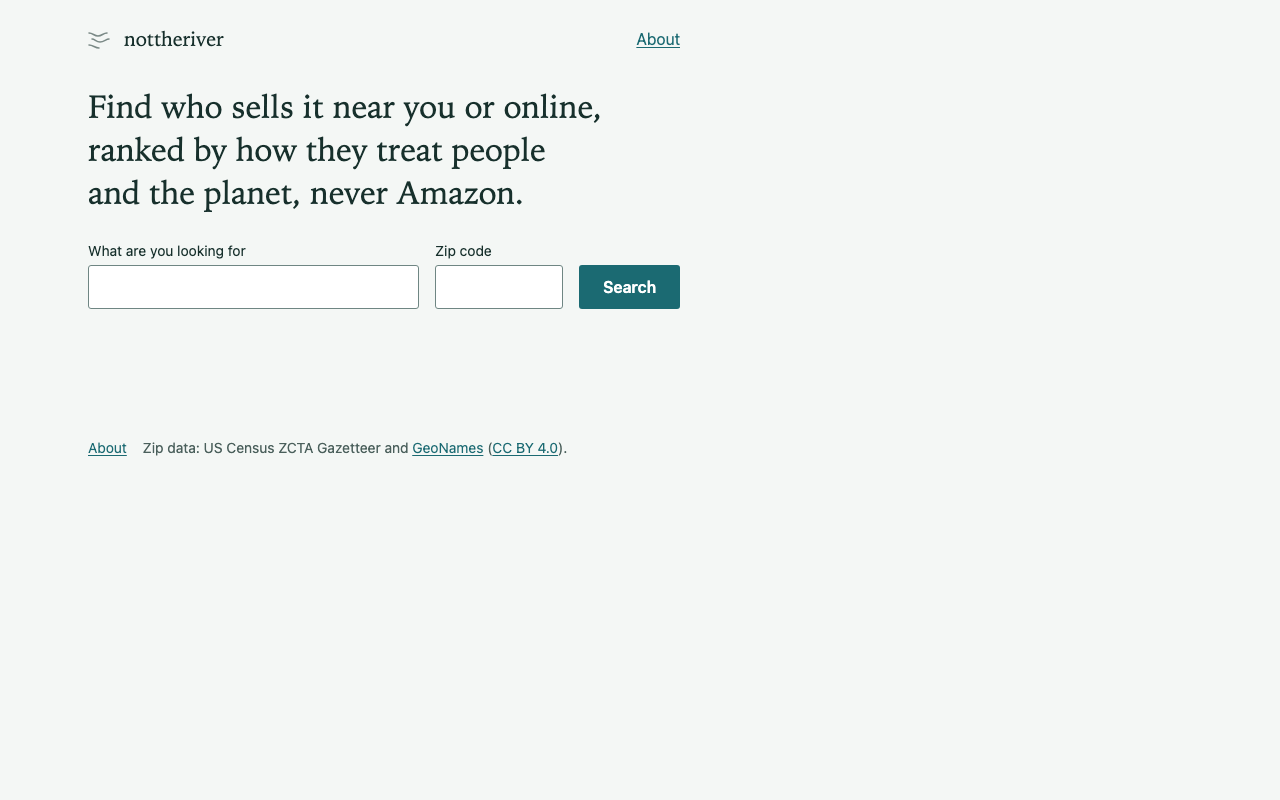
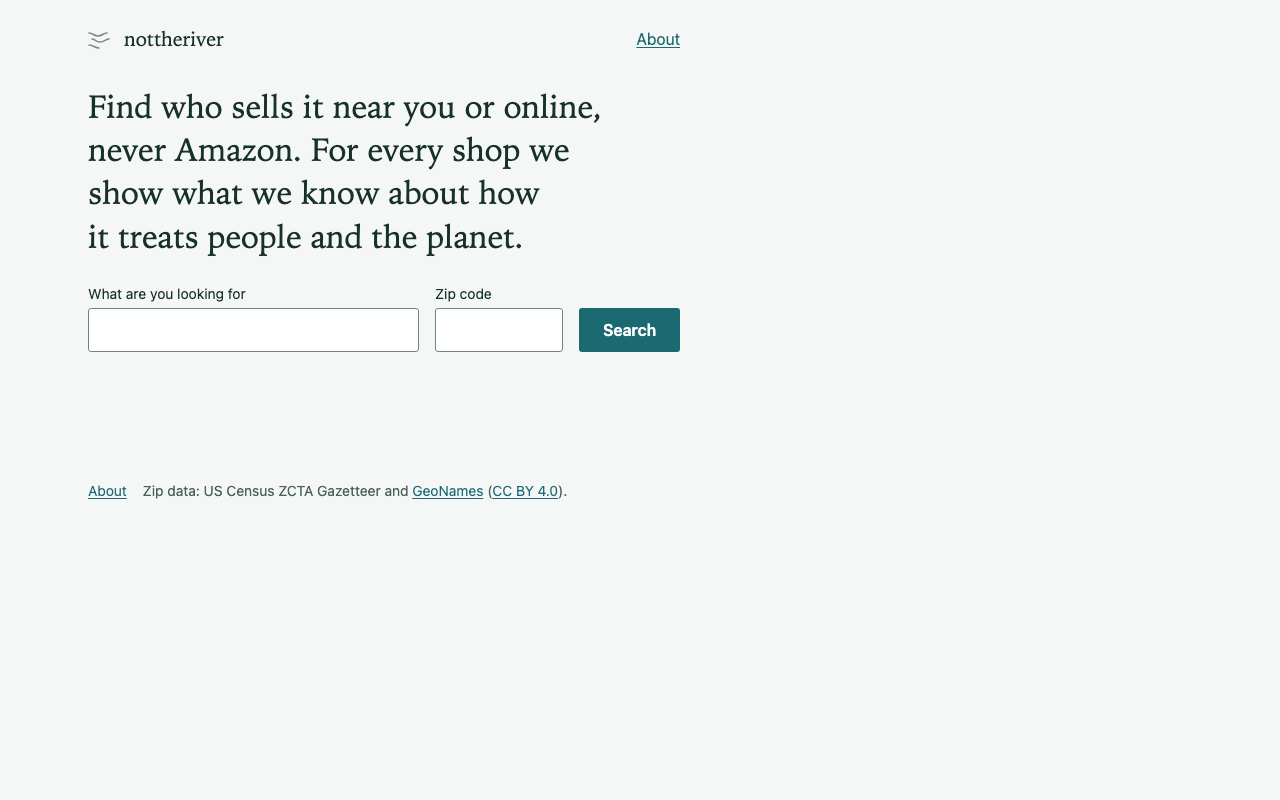
feat: say "unknown" on shops with no record, and make the headline true
A result with no scoring certification and no finding now shows "People
and planet: unknown" on its row, and a line under the weights says how
many shown results have a record and what unknown means. "Why this
rank" says "Unknown" where it said "Nothing found": holding nothing on
a shop means it was not looked into far, or looking was blocked, and
says nothing about how the shop behaves. The row uses the panel's own
test, so a chain badge or a membership badge that never scores still
reads unknown.

The headline drops "ranked by how they treat people and the planet",
which held for about one result in nine, for "For every shop we show
what we know about how it treats people and the planet."

Claude-Session: https://claude.ai/code/session_01CkQcP2ZUvVN6X4vgfbAERQ

diff --git a/src/render.test.ts b/src/render.test.ts
@@ -61,12 +61,12 @@ describe('renderResults (HR5)', () => {
     }
   });
 
-  it('names certifications and concerns, and says when nothing was found', () => {
+  it('names certifications and concerns, and says unknown when it holds neither', () => {
     const [first, second] = response.local;
     expect(whyRows(first!)).toEqual([
       ['Sells it', 'Product named in listing'],
       ['Ethics', 'B Corp'],
-      ['Environment', 'Nothing found'],
+      ['Environment', 'Unknown'],
       ['Distance', formatDistance(first!.distance_km!)],
     ]);
     expect(whyRows(second!)[1]).toEqual(['Ethics', 'Labor concern']);
@@ -87,7 +87,7 @@ describe('renderResults (HR5)', () => {
     });
     const rows = (r: SearchResult) =>
       [...renderResult(r, config).querySelectorAll('[data-component]')].map((row) => row.querySelector('.component-text')!.textContent);
-    expect(rows(judged(1, 'Model judgment: likely sells it'))).toEqual(['Likely, by shop type', 'B Corp', 'Nothing found', 'Unknown']);
+    expect(rows(judged(1, 'Model judgment: likely sells it'))).toEqual(['Likely, by shop type', 'B Corp', 'Unknown', 'Unknown']);
     expect(rows(judged(0.5, 'Model judgment: may sell it'))[0]).toBe('Maybe, by shop type');
     expect(rows(judged(0.2, base.retailer.name))[0]).toBe('Not confirmed');
   });
@@ -126,6 +126,63 @@ describe('renderResults (HR5)', () => {
     expect(plain.certifications).toHaveLength(0);
     expect(plain.chain).toBeUndefined();
     expect(item(plain).querySelector('.badges')).toBeNull();
+  });
+
+  const recordLine = (result: SearchResult) => renderResult(result, config).querySelector('[data-record]');
+
+  it('says "unknown" on a result with no certification or finding, and only there', () => {
+    const [certified, withConcern] = response.local;
+    const [alsoCertified, chainOnly] = response.online;
+    // A chain badge is a fact about the domain, not about how the shop treats people or the planet.
+    expect(chainOnly!.chain).toBeDefined();
+    expect(recordLine(chainOnly!)!.textContent).toBe('People and planet: unknown');
+    for (const result of [certified!, withConcern!, alsoCertified!]) expect(recordLine(result), result.id).toBeNull();
+    const positive: Signal = { kind: 'labor', polarity: 'positive', claim: 'Named a best employer', source_url: 'https://example.org/a', origin: 'llm', action_date: null };
+    expect(recordLine({ ...chainOnly!, signals: [positive] })).toBeNull();
+  });
+
+  it('still says "unknown" beside a membership badge that does not score', () => {
+    const base = response.online[1]!;
+    const member: SearchResult = {
+      ...base,
+      certifications: [{ kind: 'independent_retailer_assoc', label: 'Independent retailer association member', source_url: 'https://example.org/members', checked: '2026-01-01' }],
+    };
+    const li = renderResult(member, config);
+    expect(li.querySelector('.badge')!.textContent).toBe('Independent retailer association member');
+    expect(li.querySelector('[data-record]')!.textContent).toBe('People and planet: unknown');
+    const el = document.createElement('div');
+    renderResults({ ...response, local: [], online: [member] }, el, config);
+    expect(el.querySelector('[data-record-count]')!.textContent).toMatch(/^0 of 1 result has a people-and-planet record\. Unknown means/);
+  });
+
+  it('keeps the "unknown" line free of links, and the panel in agreement with it', () => {
+    for (const result of all) {
+      const li = renderResult(result, config);
+      const line = li.querySelector('[data-record]');
+      if (!line) continue;
+      expect(line.querySelector('a')).toBeNull();
+      const panel = [...li.querySelectorAll('[data-component="ethics"] .component-text, [data-component="env"] .component-text')];
+      expect(panel.map((row) => row.textContent)).toEqual(['Unknown', 'Unknown']);
+    }
+  });
+
+  it('counts the results that have a record, once, above the lists', () => {
+    const counts = root.querySelectorAll('[data-record-count]');
+    expect(counts).toHaveLength(1);
+    expect(counts[0]!.textContent).toBe(
+      '3 of 4 results have a people-and-planet record. Unknown means a shop is on none of our lists and this search found nothing about it: we have not looked further yet, or were blocked from looking.',
+    );
+    expect(counts[0]!.previousElementSibling!.matches('[data-weights]')).toBe(true);
+  });
+
+  it('counts only the results the filters leave, and drops the explanation when none is unknown', () => {
+    const el = document.createElement('div');
+    renderResults(response, el, config, { ...defaultView, certifiedOnly: true });
+    expect(el.querySelector('[data-record-count]')!.textContent).toBe('2 of 2 results have a people-and-planet record.');
+    renderResults(response, el, config, { ...defaultView, near: false, certifiedOnly: true });
+    expect(el.querySelector('[data-record-count]')!.textContent).toBe('1 of 1 result has a people-and-planet record.');
+    renderResults({ ...response, local: [], online: [] }, el, config);
+    expect(el.querySelector('[data-record-count]')).toBeNull();
   });
 
   it('shows a negative signal with its kind, source link, action date, and a dispute link', () => {

diff --git a/src/render.ts b/src/render.ts
@@ -41,6 +41,8 @@ const SIGNAL_LABELS: Record<SignalKind, string> = {
 
 const RANKING_HELP = 'about.html#ranking';
 
+type Component = SearchResult['components'][number];
+
 function el<K extends keyof HTMLElementTagNameMap>(
   tag: K,
   props: { id?: string; className?: string; data?: Record<string, string> } = {},
@@ -97,7 +99,7 @@ const WHY_LABELS: Record<ComponentName, string> = {
 
 const isRankingDoc = (url: string) => url.endsWith('about.html#ranking');
 
-function sellsText(c: SearchResult['components'][number]): string {
+function sellsText(c: Component): string {
   const judged = c.sources.some((s) => s.label.startsWith('Model judgment'));
   if (c.value >= 1) return judged ? 'Likely, by shop type' : 'Product named in listing';
   if (c.value >= 0.5) return judged ? 'Maybe, by shop type' : 'Category named in listing';
@@ -161,7 +163,17 @@ function sourceLink(s: SourceRef): HTMLAnchorElement {
   return outbound(s.url, kind ? `${kind} concern` : s.label, { data: { componentSource: '' } });
 }
 
-function whyText(c: SearchResult['components'][number], result: SearchResult): (Node | string)[] {
+const foundSources = (c: Component) => c.sources.filter((s) => !isRankingDoc(s.url));
+
+// "Unknown", not "nothing found": holding no certification or finding says the shop has
+// not been looked into far, or that looking was blocked, and nothing about how it behaves.
+// The test is the panel's own (a source behind the ethics or environment score), so the row
+// and the panel cannot disagree. A chain badge or a membership badge that never scores is
+// not a record.
+const hasRecord = (result: SearchResult) =>
+  result.signals.length > 0 || result.components.some((c) => (c.name === 'ethics' || c.name === 'env') && foundSources(c).length > 0);
+
+function whyText(c: Component, result: SearchResult): (Node | string)[] {
   switch (c.name) {
     case 'relevance':
       return [sellsText(c)];
@@ -169,14 +181,14 @@ function whyText(c: SearchResult['components'][number], result: SearchResult): (
       if (result.kind === 'online') return ['Online'];
       return [result.distance_km === null ? 'Unknown' : formatDistance(result.distance_km)];
     default: {
-      const found = c.sources.filter((s) => !isRankingDoc(s.url));
-      if (found.length === 0) return ['Nothing found'];
+      const found = foundSources(c);
+      if (found.length === 0) return ['Unknown'];
       return found.flatMap((s, i) => (i > 0 ? [', ', sourceLink(s)] : [sourceLink(s)]));
     }
   }
 }
 
-function componentRow(c: SearchResult['components'][number], result: SearchResult): HTMLLIElement {
+function componentRow(c: Component, result: SearchResult): HTMLLIElement {
   return el(
     'li',
     { data: { component: c.name } },
@@ -209,6 +221,8 @@ export function renderResult(result: SearchResult, config: RenderConfig): HTMLLI
       ),
     );
   }
+
+  if (!hasRecord(result)) body.append(el('p', { className: 'record', data: { record: 'unknown' } }, 'People and planet: unknown'));
 
   // The claim is the source's own title; this code only labels its kind.
   for (const s of result.signals) {
@@ -253,6 +267,16 @@ export function renderWeights(weights: SearchResponse['weights']): HTMLParagraph
     `Ranked by ${parts.join(', ')}. `,
     internal(RANKING_HELP, 'How ranking works'),
   );
+}
+
+// Says how much of the list rests on a record, so a page of "unknown" rows reads as a gap
+// in what the site holds and not as a verdict on the shops.
+function renderRecordCount(shown: SearchResult[]): HTMLParagraphElement | null {
+  if (shown.length === 0) return null;
+  const withRecord = shown.filter(hasRecord).length;
+  const count = `${withRecord} of ${shown.length} ${shown.length === 1 ? 'result has' : 'results have'} a people-and-planet record.`;
+  const unknown = ' Unknown means a shop is on none of our lists and this search found nothing about it: we have not looked further yet, or were blocked from looking.';
+  return el('p', { className: 'record-count', data: { recordCount: '' } }, withRecord < shown.length ? count + unknown : count);
 }
 
 const shopId = (rank: number) => `shop-${rank}`;
@@ -318,7 +342,7 @@ function section(
   return node;
 }
 
-// Renders the weights line and both sections into root; returns how many results are visible.
+// Renders the weights line, the record count and both sections into root; returns how many results are visible.
 export function renderResults(
   response: SearchResponse,
   root: HTMLElement,
@@ -334,8 +358,10 @@ export function renderResults(
   const map = pins.length > 0 && config.onMap ? el('div', { className: 'map', data: { map: '' } }) : null;
   map?.setAttribute('role', 'region');
   map?.setAttribute('aria-label', 'Map of the shops listed near you');
+  const recordCount = renderRecordCount([...shownLocal, ...shownFarther, ...shownOnline]);
   root.replaceChildren(
     renderWeights(response.weights),
+    ...(recordCount ? [recordCount] : []),
     section('near', 'Near you', response.local, shownLocal, view.near, config, farther, map),
     section('online', 'Online', response.online, shownOnline, view.online, config),
   );

diff --git a/about.html b/about.html
@@ -22,7 +22,7 @@
 </header>
 
 <main class="page prose">
-<h1>Find who sells it near you or online, ranked by how they treat people and the planet, never Amazon.</h1>
+<h1>Find who sells it near you or online, never Amazon. For every shop we show what we know about how it treats people and the planet.</h1>
 <p>Type a product and a US zip code. You get shops near you and online retailers that sell it or something close, each ranked with its reasons shown. There are no accounts, cookies, or analytics.</p>
 
 <h2 id="amazon">Why Amazon never appears</h2>
@@ -38,6 +38,7 @@
 <li>Proximity: for shops near you, 1 at the center of your zip area, falling to 0 at 40 km (about 25 miles). Online retailers get 0.5.</li>
 </ul>
 <p>"Baseline 0.5" in a score's sources means that score started at 0.5 and nothing changed it.</p>
+<p>"Unknown" on a result means the shop is on none of our curated lists and the search turned up no accepted finding about it: we have not looked further yet, or we were blocked from looking. It counts neither for nor against the shop: its ethics and environment scores stay at 0.5.</p>
 <p>Certifications come from a short curated list in which every entry cites its source. A negative finding lowers a score only when its source is on the list of accepted sources: regulators, court records, established news organizations, and recognized labor and environmental watchdogs. The language model suggests search terms, judges whether each result is a shop that sells the product and leaves out those it judges are not, and points to findings in the search results; the text shown for a finding is always the source's own title or snippet, never words the model wrote. The chain badge comes from a curated list of chains with 10 or more US stores, each entry linking its own source, Like a certification it can be disputed; unlike one, it never changes the score. Details: <a data-repo-path="blob/main/docs/ranking.md">docs/ranking.md</a>.</p>
 
 <h2 id="dispute">Disputing a ranking</h2>

diff --git a/src/styles.css b/src/styles.css
@@ -145,6 +145,7 @@ input[aria-invalid="true"] { border-color: var(--warn); border-width: 2px; }
 input[type="checkbox"] { accent-color: var(--accent); width: 1.25rem; height: 1.25rem; margin: 0; }
 .weights, .coverage-note { color: var(--ink-muted); font-size: var(--text-sm); margin: var(--space-3) 0 0; }
 .coverage-note { margin-top: var(--space-6); }
+.record-count { color: var(--ink-muted); font-size: var(--text-sm); margin: var(--space-1) 0 0; }
 
 section h2 { font-family: var(--font-voice); font-weight: 400; font-size: var(--text-lg); margin: var(--space-6) 0 var(--space-1); }
 section h3 { font-family: var(--font-voice); font-weight: 400; font-size: var(--text-md); margin: var(--space-5) 0 var(--space-1); }
@@ -195,6 +196,7 @@ section h3 { font-family: var(--font-voice); font-weight: 400; font-size: var(--
 /* An inset shadow, not a border, keeps it the same height as a teal badge in the same row. */
 .badge-neutral { background: none; color: var(--ink); box-shadow: inset 0 0 0 1px var(--border-input); }
 .signal, .negative, .concerns { margin: var(--space-3) 0 0; font-size: var(--text-sm); }
+.record { margin: var(--space-3) 0 0; font-size: var(--text-sm); color: var(--ink-muted); }
 .signal-kind { font-weight: 600; }
 .negative { padding: var(--space-3); background: var(--warn-bg); color: var(--warn); border-radius: var(--radius-panel); }
 .negative a { color: var(--warn); margin-right: var(--space-4); }

diff --git a/src/config.ts b/src/config.ts
@@ -4,7 +4,7 @@
 export const siteName = 'nottheriver';
 
 export const tagline =
-  'Find who sells it near you or online, ranked by how they treat people and the planet, never Amazon.';
+  'Find who sells it near you or online, never Amazon. For every shop we show what we know about how it treats people and the planet.';
 
 // Operator-entered, so a trailing slash must not turn /search into //search.
 export const workerUrl: string = (import.meta.env.VITE_WORKER_URL ?? '').replace(/\/+$/, '');

diff --git a/index.html b/index.html
@@ -22,7 +22,7 @@
 </header>
 
 <main class="page">
-<h1 class="mission" data-mission>Find who sells it near you or online, ranked by how they treat people and the planet, never Amazon.</h1>
+<h1 class="mission" data-mission>Find who sells it near you or online, never Amazon. For every shop we show what we know about how it treats people and the planet.</h1>
 
 <form id="search" class="search" method="post" action="#" novalidate>
 <div class="field field-product">

diff --git a/docs/STATUS.md b/docs/STATUS.md
@@ -43,6 +43,7 @@ As of 2026-10-01. Pushed to `main`; the Worker is deployed at `e573572` with the
 | Wireframes from a blank page (2026-11-11) | [wireframes/](wireframes/README.md): three low-fidelity designs by agents that never saw the current site, working only from [wireframes/inventory.md](wireframes/inventory.md) (needs, information, functions and rules, no screens; passed three leak checks). WF1 orders the visit as a sequence of six steps, WF2 hangs everything on a drawing of the visitor's area, WF3 presents the answer as sourced statements. Each has a `wireframe.html` at 360 px and 1280 px, the designer's reasons, a coverage table and an independent check with one fix round (24, 21 and 17 gaps found; 22, 21 and 13 fixed or addressed, the rest in part). Not rendered in a browser; fixes not checked a second time. Documentation only: nothing in `src/` changed |
 | Ethics as a data problem (2026-11-11) | [ethics-data-strategies.md](ethics-data-strategies.md): the operator's answer to the headline rewrite (VQ3) was to keep ethics in the product and treat the gap as a data problem. Eight agents (five Sonnet, one Opus, two Fable) read the operator's eight starting points, hunted datasets and brainstormed blind to each other; a fresh review raised 27 findings, all applied. Measured on saved searches ([evidence/ethics-data/shop-domains.tsv](evidence/ethics-data/shop-domains.tsv)): 235 of 2,182 results (11%) are off the default scores, 166 of them from findings on three chains and 69 from certifications on five websites. Likely finding: data exists for national chains (grades need the publisher's permission, federal records need upkeep), partly for brands, and not yet for small local shops. 13 strategies (ES1 to ES12, with ES11 in two parts), a four-step sequence starting with an explicit "not checked" line on every shop, six headline wordings that keep ethics in the line. Nothing built; every hour figure is an estimate; reuse terms were read through a summarizing tool and need the operator's check |
 | Blocked pages read (2026-11-15) | The 58 pages the ethics report could not read, tried again within the operator's limits (crawler rules followed, no stealth tool, proxy, CAPTCHA solving or login). By the lead agent's count about 13 questions are answered and about 16 partly; 13 are not answerable today, 6 were terms questions skipped under the data stance ruling, 4 are held unread, 6 are gone, behind a login or unmeasured. Results are in the last column of [section 10](ethics-data-strategies.md#10-pages-the-owner-needs-to-open) and in [evidence/ethics-data/blocked-pages/](evidence/ethics-data/blocked-pages/README.md). Useful to the build: look-up links that carry a shop's name work on Violation Tracker, Good On You, Good Shopping Guide and B Corp (one or two names tested each); Alter Eco and Lake Champlain Chocolates are B Corps; Form 5500 codes mark companies with an employee stock ownership plan; GreenChill certifies single stores (Target 78, Costco 5 among the most-seen shops). New script: `research/fetch-page.mjs`. Each answer rests on one fetch; two departures from the limits are recorded in the evidence README |
+| Record line and headline (2026-11-15) | Step 1 of the ethics sequence, in part (ES1 in [ethics-data-strategies.md](ethics-data-strategies.md#5-strategies)). A result with no scoring certification and no finding shows "People and planet: unknown" (a chain badge or a membership badge that never scores does not count); a line under the weights says how many shown results have a record and what unknown means; "Why this rank" says "Unknown" where it said "Nothing found"; `about.html` says what unknown means. The headline on both pages is now "Find who sells it near you or online, never Amazon. For every shop we show what we know about how it treats people and the planet." Checks: 896 unit tests, lint and typecheck, and the 3 end-to-end tests (run locally with a cached Chromium build, not the pinned one). In the newest saved searches about 87% of results hold no certification or finding, so most rows read "unknown". Not built: the look-up links (ES3), which wait on the owner trying each link pattern on 20 shops |
 | Docs | [security alerts](security-alerts.md) (each `npm audit` alert, what was done, what stays open and how to repeat the check, 2026-11-11), [architecture](architecture.md), [privacy](privacy.md), [ranking](ranking.md), [costs](costs.md), [debt](debt.md), [scale feasibility](scale-feasibility.md) (caching, storage and cost as users arrive, 2026-10-08, with [reuse](scale-feasibility-reuse.md) and [costs](scale-feasibility-costs.md) companions), [open place coverage](open-place-coverage.md) (the 86 graded nearby shops against OpenStreetMap and Overture, 2026-10-09), [open place precision](open-place-precision.md) (300 Overture shops near the graded zips graded for sells-it and exists, 2026-10-09), [ethics data strategies](ethics-data-strategies.md) (ways to keep ethics in the product, with the data sources checked, 2026-11-11), [scaling architecture](scaling-architecture.md) (scenarios from steady use to the whole country, the options and a staged path, 2026-11-11), ADRs [0001](decisions/0001-external-services.md) to [0006](decisions/0006-weighted-findings.md) |
 
 ## In flight
@@ -110,6 +111,7 @@ Effect on the ethics sequence: step 1 is the record line on every shop (ES1) and
 - Data stance (2026-11-15, this project only): the project "should be scrappy and prioritize sharing data with the public". It honors robots.txt and avoids questionable unblocking strategies. It will "claim fair use when sharing scraped data rather than parsing TOS and worrying about legality. this site is non-profit and experimental." Effect on [ethics-data-strategies.md](ethics-data-strategies.md): a publisher's permission no longer gates ED4 (which permissions to ask for), ED5 (non-commercial use), ES12 (lists loaded with permission) or the grades half of ES10 (graded by others); the report itself is not rewritten. Unchanged: the rules for findings about a shop ([ADR 0004](decisions/0004-down-ranking.md), `data/negative-sources.md`), so ED9 (whether an advocacy scorecard is an accepted source) is still open. Flagged by the agent, not ruled: fair use does not answer a license condition such as OpenStreetMap's share-alike (ED8), and it is weakest for republishing a rater's whole set of grades.
 - Reading pages for research (2026-11-15): agents may read Wayback Machine copies of pages that refuse automated readers and use `research/fetch-page.mjs` (robots.txt checked before every request, true client name, no retry past a challenge page). The same day the operator approved one attended session in their own Chrome for six named walled pages (Violation Tracker, B Corp, the New York wage theft dashboard); any other page needs a new yes. Paid unblocking services, false client names and CAPTCHA solving stay out.
 - Words for a shop with no record (ED2 in [ethics-data-strategies.md](ethics-data-strategies.md#9-decisions-for-the-owner), 2026-11-15): "unknown", not the report's "not checked". In the operator's words: "i prefer 'unknown' because we might be blocked from checking or have literally not checked yet." The record line on every shop (ES1) is to be built with it.
+- Headline (ED1 in [ethics-data-strategies.md](ethics-data-strategies.md#8-headline-wording), 2026-11-15): the report's HW2 without its last clause, to go live with the record line: "Find who sells it near you or online, never Amazon. For every shop we show what we know about how it treats people and the planet." The operator dropped ", and say so when it is unknown" as "an obvious ai tell phrase". This supersedes the "not now" below.
 - Headline rewrite (VQ3 in [value-proposition-review.md](value-proposition-review.md), 2026-11-11): not now. Ethics stays in the product and in the headline; the gap is to be worked as a data problem ([ethics-data-strategies.md](ethics-data-strategies.md)).
 
 ## Decisions needed
@@ -125,7 +127,7 @@ Effect on the ethics sequence: step 1 is the record line on every shop (ES1) and
 - Value proposition review (2026-11-11): eight decisions, VQ1 to VQ8, in [value-proposition-review.md](value-proposition-review.md#5-decisions-for-the-operator). The two that reorder work: VQ3, whether the headline drops "ranked by how they treat people and the planet" now; VQ1, whether two checks on saved results and a hand comparison against a maps app and a general search engine go ahead of Amazon plan Phase B. VQ3 is answered (not now; see "Decisions made by the operator").
 - Scaling decisions AQ1 to AQ11 in [scaling-architecture.md](scaling-architecture.md#aq-decisions-for-the-operator): first, the three deferred scale decisions as one choice of mode (AQ1) and whether to build a shared spend counter with a hard ceiling in the Worker (AQ2).
 - WD1 (which wireframe direction to pursue): WF1 (sequence), WF2 (place), WF3 (evidence), a mix, or none. What each would force, and which the lead agent would test first: [wireframes/README.md](wireframes/README.md).
-- Ethics data strategies (2026-11-11): thirteen decisions, ED1 to ED13, in [ethics-data-strategies.md](ethics-data-strategies.md#9-decisions-for-the-owner). First: ED1 (which headline wording, and when). ED2 (the words shown for a shop with no record) is answered: "unknown". ED4 (which publishers to ask for permission) and ED5 (whether the site's use counts as non-commercial) are answered by the data stance ruling of 2026-11-15 (see "Decisions made by the operator"); ED8 (OpenStreetMap's share-alike license) and ED9 (whether an advocacy scorecard is an accepted source) are still open.
+- Ethics data strategies (2026-11-11): thirteen decisions, ED1 to ED13, in [ethics-data-strategies.md](ethics-data-strategies.md#9-decisions-for-the-owner). ED1 (which headline wording, and when) and ED2 (the words shown for a shop with no record) are answered (see "Decisions made by the operator"). Next in the report's order: ED3 (whether the ranking weights change while most shops are unrated). ED4 (which publishers to ask for permission) and ED5 (whether the site's use counts as non-commercial) are answered by the data stance ruling of 2026-11-15 (see "Decisions made by the operator"); ED8 (OpenStreetMap's share-alike license) and ED9 (whether an advocacy scorecard is an accepted source) are still open.
 
 ## Questions guessed on
 

diff --git a/docs/ethics-data-strategies.md b/docs/ethics-data-strategies.md
@@ -2,7 +2,7 @@
 
 Status: research and proposals, 2026-11-11. Nothing here is built or tested with people. The owner decides (section 9).
 
-Updated 2026-11-15: most of the pages in section 10 have now been read, and sections 10 and 11 carry the results; the evidence is in [evidence/ethics-data/blocked-pages/](evidence/ethics-data/blocked-pages/README.md). Pages were read with a plain request, a headless browser, Wayback Machine copies, and for three sites the owner's own browser with the owner present. Scripted requests followed each site's crawler rules, and no stealth tool, proxy, CAPTCHA solving or login was used; two departures are recorded in that folder's README. On the same day the owner ruled that this project claims fair use and does not wait on publishers' permission (`docs/STATUS.md`, "Decisions made by the operator"). Sections 1 to 9 are as written on 2026-11-11 apart from three corrected lines (the unread list in section 2, the "Data needed" line of ES3 and the "Reuse rights" line of ES6), so where they say a source "needs permission", read that ruling alongside, and where they say "unconfirmed", check sections 10 and 11.
+Updated 2026-11-15: most of the pages in section 10 have now been read, and sections 10 and 11 carry the results; the evidence is in [evidence/ethics-data/blocked-pages/](evidence/ethics-data/blocked-pages/README.md). Pages were read with a plain request, a headless browser, Wayback Machine copies, and for three sites the owner's own browser with the owner present. Scripted requests followed each site's crawler rules, and no stealth tool, proxy, CAPTCHA solving or login was used; two departures are recorded in that folder's README. On the same day the owner ruled that this project claims fair use and does not wait on publishers' permission (`docs/STATUS.md`, "Decisions made by the operator"). Sections 1 to 9 are as written on 2026-11-11 apart from three corrected lines (the unread list in section 2, the "Data needed" line of ES3 and the "Reuse rights" line of ES6), so where they say a source "needs permission", read that ruling alongside, and where they say "unconfirmed", check sections 10 and 11. Also on 2026-11-15 the owner chose "unknown" over "not checked" as the words for a shop with no record (ED2), and the record line (ES1) was built with it. The headline changed the same day (ED1) to HW2 without its last clause, so section 8's "Today" line is the old one.
 
 Why this exists: a review on 2026-11-11 ([value-proposition-review.md](value-proposition-review.md), decision VQ3, the headline rewrite) proposed dropping "ranked by how they treat people and the planet" from the headline because 87% to 93% of results carried the default scores. The owner's answer: not now. Treat it as a data problem and keep ethics in the product; without it the site is a map search. This report asks what a one-person site can do to make ethical ratings easy to find and use during a product search.
 
@@ -384,7 +384,7 @@ Ordered by which step each one gates. The last column is what a second pass read
 | 3 | Toxic-Free Future's scoring rubric PDF, linked from https://toxicfreefuture.org/retailer-report-card/2024/methodology/ | Sub-criterion points | Read. Corporate Commitment 20; Transparency 44 (40 for shops that do not sell beauty products); Ban the Bad 51 (45); Safer Solutions 50; totals 165 and 155. Points per sub-criterion are in `answers.md`, row p57. Points go only to adopted, public policies |
 | 3 | https://directory.goodonyou.eco/ (search REI or Target) ; https://resources.goodonyou.eco/help/multi-collection ; https://resources.goodonyou.eco/help/good-on-you-ratings-api | Whether any retailer rating is public; API fields and price | No retailer rating seen: the directory has only Fashion and Beauty tabs, though a retailer method is published. The search was not run (crawler rules close `/search/`). API: fields include `parentCompany`, `certifications` and `size`; 60 requests a minute; no price on the page |
 | 3 | https://thegoodshoppingguide.com/supermarkets/ ; https://www.ethicalconsumer.org/subscriptions ; https://www.ethicalconsumer.org/company-profile/etsy-inc | Scores and benchmark; price and data license; what a free reader sees | Supermarkets page: gone (redirects to the home page; the archive copy is a challenge page). Ethical Consumer: £39.50 or £45.50 a year; no data-license price on the page. A free reader sees the summary, boycott status and stories with some sub-scores; the overall score is hidden |
-| 4 | https://dataportal.dol.gov/ and https://data.dol.gov/ | Whether a no-key CSV of wage and OSHA cases exists; file URLs; license | Not readable. Both are script apps, and their crawler rules close the paths the scripts load from. The Department of Labor API (key held) is the route |
+| 4 | https://dataportal.dol.gov/ and https://data.dol.gov/ | Whether a no-key CSV of wage and OSHA cases exists; file URLs; license | Not readable. Both are script apps. The first one's crawler rules close the folder its scripts load from; the second stayed empty with two of its own requests stopped by its rules, likely for the same reason. The Department of Labor API (key held) is the route |
 | 4 | https://www.dol.gov/general/aboutdol/copyright | Confirm the public-domain sentences | The sentence is on the page: "may be used, reproduced and distributed without permission". Quoted, not analyzed |
 | 4 | https://www.nlrb.gov/advanced-search | Whether the export has employer address; robots rules | Crawler rules allow this path (they close `/search/`). The export gives up to 100,000 records with chosen columns; the column names need a form request, not made, so the address question is open |
 | 4 | CPSC site, search "Civil and Criminal Penalties" | The civil-penalty list | The page holds a pick-list of 297 company names with no amounts or years. Nine match top-99 names: Walmart, Target, Dollar General, Macy's, IKEA, TJX, Office Depot, Williams-Sonoma, Walgreen. Details need one form request per company, not made |
